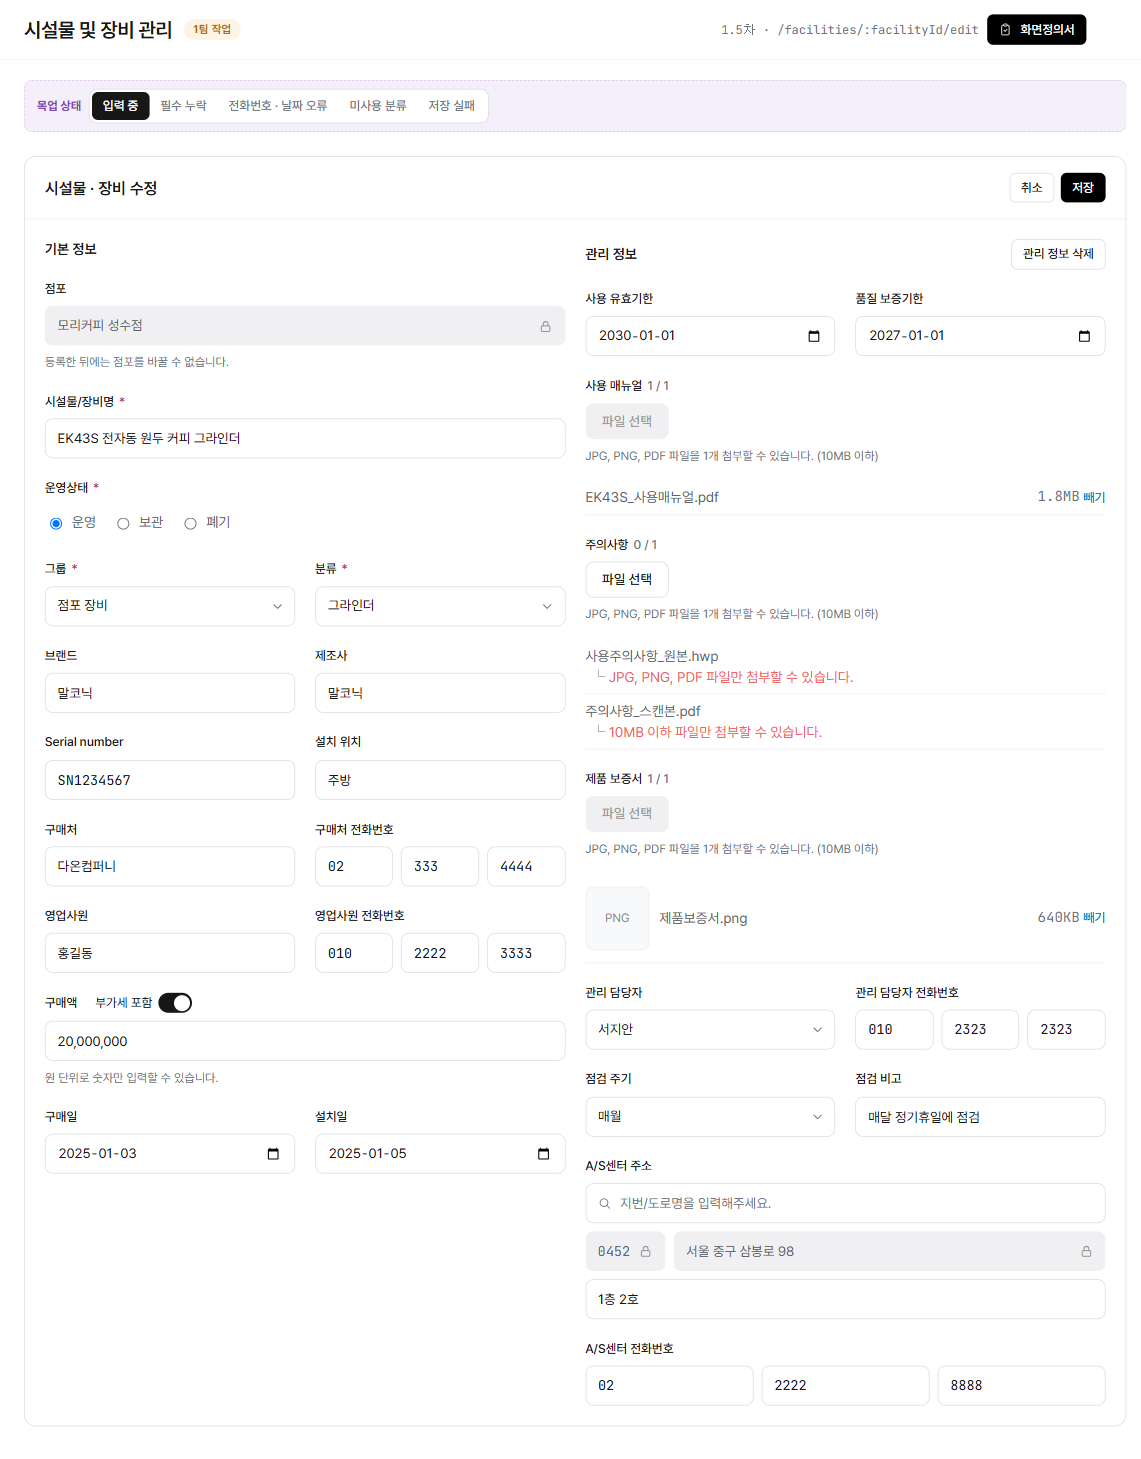
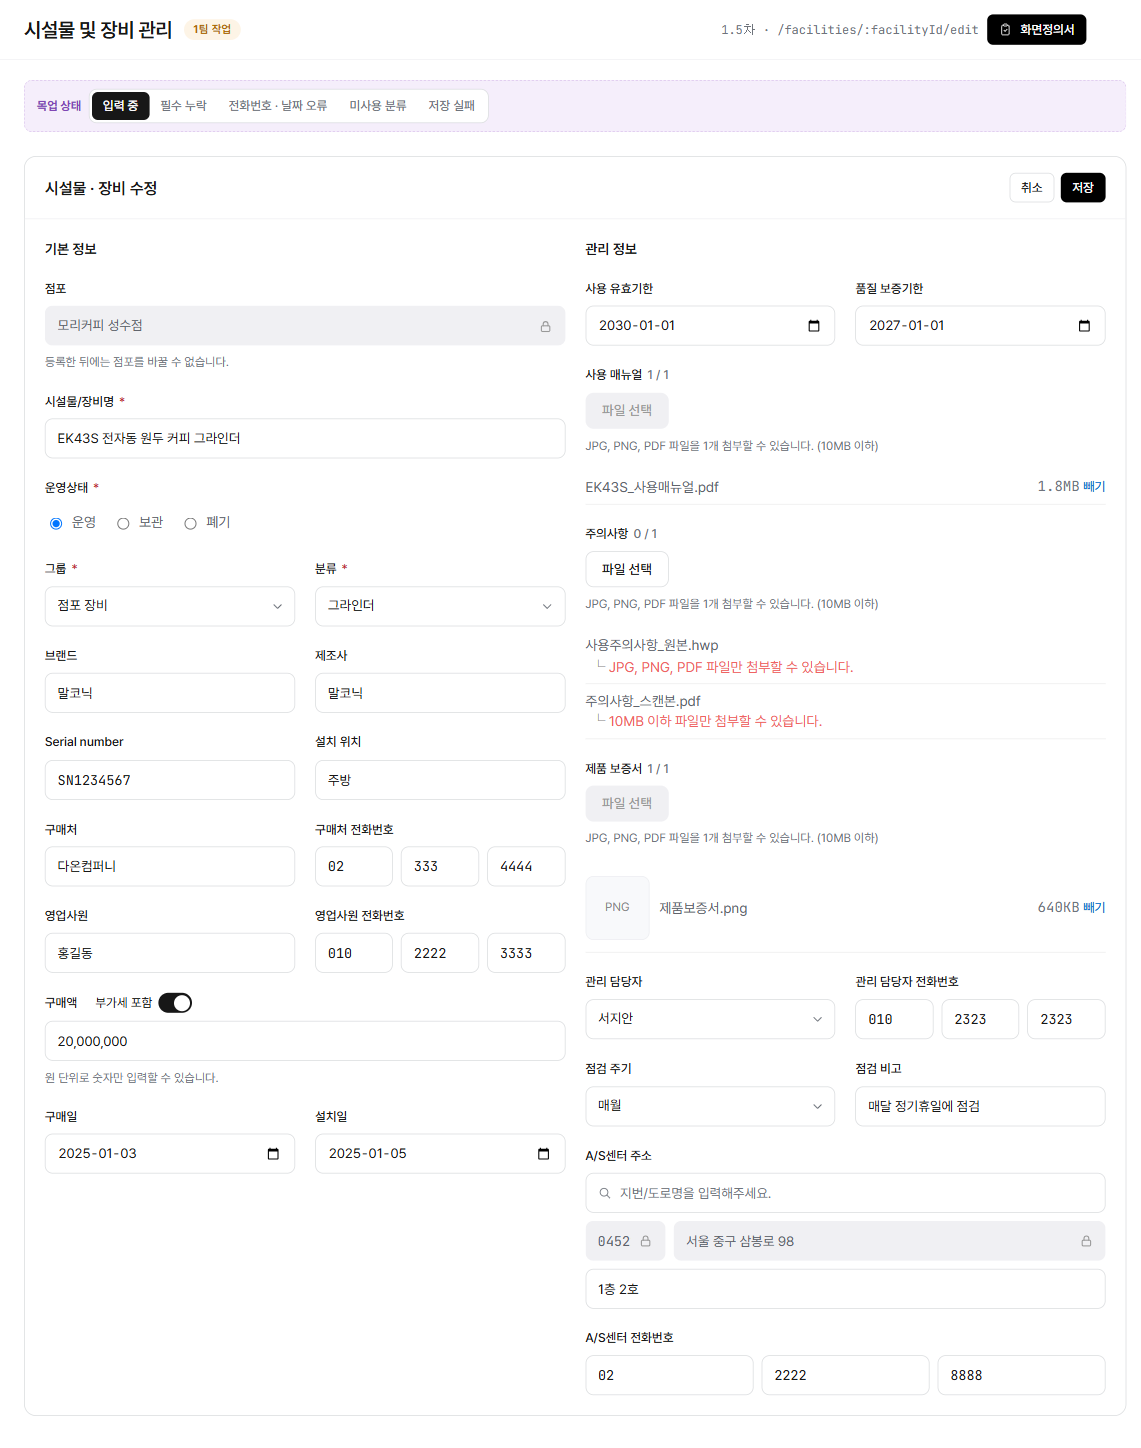
docs: 시설물·장비 수정 화면의 관리 정보 삭제 제거
원 화면정의서는 관리 정보가 별도 화면이라 삭제 버튼이 따로 있었지만,
수정 화면 하나로 합치면서 칸을 비워 저장하는 것과 같아졌다.
목업 · 화면정의서 · 데모 소스에서 버튼과 확인창을 뺀다(정책서 PL-4).

diff --git a/docs/mockup/stores/facilities-edit.html b/docs/mockup/stores/facilities-edit.html
@@ -12,7 +12,7 @@
          기준: 「시설물·장비 관리 정책서」 PL-1 ~ PL-6. 등록 화면과 같은 칸 · 같은 입력 규칙이고 다른 점만 적는다.
          - 점포는 등록한 뒤 바꿀 수 없어 읽기 전용(#f8f9fb 바탕)으로 보인다. 옮기려면 새로 등록하고 기존 건은 폐기로 바꾼다(PL-1).
          - BP 가 미사용으로 바꾼 분류는 지금 값으로 남아 보이고, 다른 값으로 바꾸면 되돌릴 수 없다(PL-3).
-         - 관리 정보에는 [관리 정보 삭제]가 있다 — 논리 삭제, 확인창을 거쳐 상세로 간다(PL-4).
+         - 관리 정보는 따로 지우지 않는다 — 지울 값은 칸을 비우고 저장한다. 원 화면정의서(43쪽)의 관리 정보 [삭제]는 두 화면을 하나로 합치며 뺐다(PL-4, 2026-11-10).
          - 운영상태는 공통코드 「시설물 운영상태」(처음 값 운영), 그룹은 「점포 시설물」 · 「점포 장비」, 분류는 고른 그룹의 상세 코드. 그룹을 바꾸면 분류를 지운다(PL-2 · PL-3).
          - [저장]을 누르면 검사하고, 걸린 칸 바로 아래에 빨간 문구를 보이고 첫 오류 칸으로 옮긴다. 알럿은 띄우지 않는다(PL-5).
          - 전화번호는 앞 · 가운데 · 끝 세 칸, 숫자만 칸마다 4자리까지, 이은 번호 9~12자리(PL-5).
@@ -214,10 +214,7 @@
 
                   <!-- 관리 정보 — 모두 선택 입력 -->
                   <div class="stack--lg" style="display: flex; flex-direction: column">
-                    <div class="spread">
-                      <h3 class="t-h3" style="margin: 0">관리 정보</h3>
-                      <button class="btn btn--secondary btn--sm" type="button" data-open="pop-mdelete">관리 정보 삭제</button>
-                    </div>
+                    <h3 class="t-h3" style="margin: 0">관리 정보</h3>
                     <div class="grid grid--2">
                       <div class="field">
                         <label for="fuse">사용 유효기한</label>
@@ -327,23 +324,6 @@
         </div>
       </main>
     </div>
-    <!-- 관리 정보 삭제 확인 — 논리 삭제, 삭제 뒤 상세로(PL-4) -->
-    <div class="modal" id="pop-mdelete" hidden role="dialog" aria-modal="true" aria-labelledby="pm-t">
-      <div class="modal__box">
-        <div class="modal__head">
-          <h2 class="t-h2" id="pm-t">관리 정보를 삭제하시겠습니까?</h2>
-          <button class="iconbtn" type="button" data-close aria-label="닫기" data-icon="x" data-icon-size="16"></button>
-        </div>
-        <div class="modal__body">
-          <div class="band band--risk"><div class="band__body"><p class="band__desc" style="margin: 0">기한 · 문서 · 관리 담당자 · 점검 주기 · A/S센터 정보가 모두 삭제됩니다.<br />기본 정보는 그대로 남습니다.</p></div></div>
-        </div>
-        <div class="modal__foot">
-          <button class="btn btn--ghost" type="button" data-close>취소</button>
-          <a class="btn btn--primary" href="facilities-detail.html">삭제</a>
-        </div>
-      </div>
-    </div>
-
     <script src="../assets/app.js"></script>
     <script src="../assets/auth.js"></script>
   </body>

diff --git a/docs/mockup/stores/overview.html b/docs/mockup/stores/overview.html
@@ -99,7 +99,7 @@
           <section class="section">
             <div class="panel__head" style="padding-left: 0; padding-right: 0">
               <h2 class="t-h2">화면 · 시설물 및 장비 관리</h2>
-              <span class="badge badge--quiet">4개 + 팝업 2</span>
+              <span class="badge badge--quiet">4개 + 팝업 1</span>
               <span class="badge badge--warn">1.5차</span>
               <div class="panel__end">
                 <span class="filters__count mono">정책서 PL-1 ~ PL-6 · stores/facilities*</span>
@@ -127,7 +127,7 @@
               <a class="mk-card" href="facilities-edit.html">
                 <span class="mk-card__route">/facilities/:id/edit</span>
                 <span class="mk-card__name">시설물 · 장비 수정</span>
-                <span class="mk-card__desc">점포는 읽기 전용. 미사용 분류는 지금 값으로 남고, 바꾸면 되돌릴 수 없다. 관리 정보 삭제는 논리 삭제.</span>
+                <span class="mk-card__desc">점포는 읽기 전용. 미사용 분류는 지금 값으로 남고, 바꾸면 되돌릴 수 없다. 관리 정보는 따로 지우지 않고 칸을 비워 저장한다.</span>
                 <span class="mk-card__end"><span class="badge badge--preview">상태 5</span></span>
               </a>
             </div>

diff --git a/docs/mockup/stores/facilities-edit.screen-def.html b/docs/mockup/stores/facilities-edit.screen-def.html
@@ -68,10 +68,10 @@
       "desc": "정의: BP 가 미사용으로 바꾼 분류는 지금 값으로 남아 보이고, 다른 값으로 바꾸면 되돌릴 수 없다(PL-3)"
     },
     {
-      "x": 1013,
-      "y": 254,
-      "title": "관리 정보 삭제",
-      "desc": "정의: 확인창을 거쳐 관리 정보(기한 · 문서 · 담당자 · 점검 · A/S센터)를 논리 삭제하고 상세로 이동. 기본 정보는 남는다(PL-4)"
+      "x": 592,
+      "y": 249,
+      "title": "관리 정보",
+      "desc": "정의: 관리 정보(기한 · 문서 · 담당자 · 점검 · A/S센터)는 따로 지우지 않는다 — 지울 값은 칸을 비우고 저장한다\n원 화면정의서(43쪽)의 관리 정보 [삭제]는 두 화면을 하나로 합치며 뺐다(PL-4)"
     }
   ]
 }
